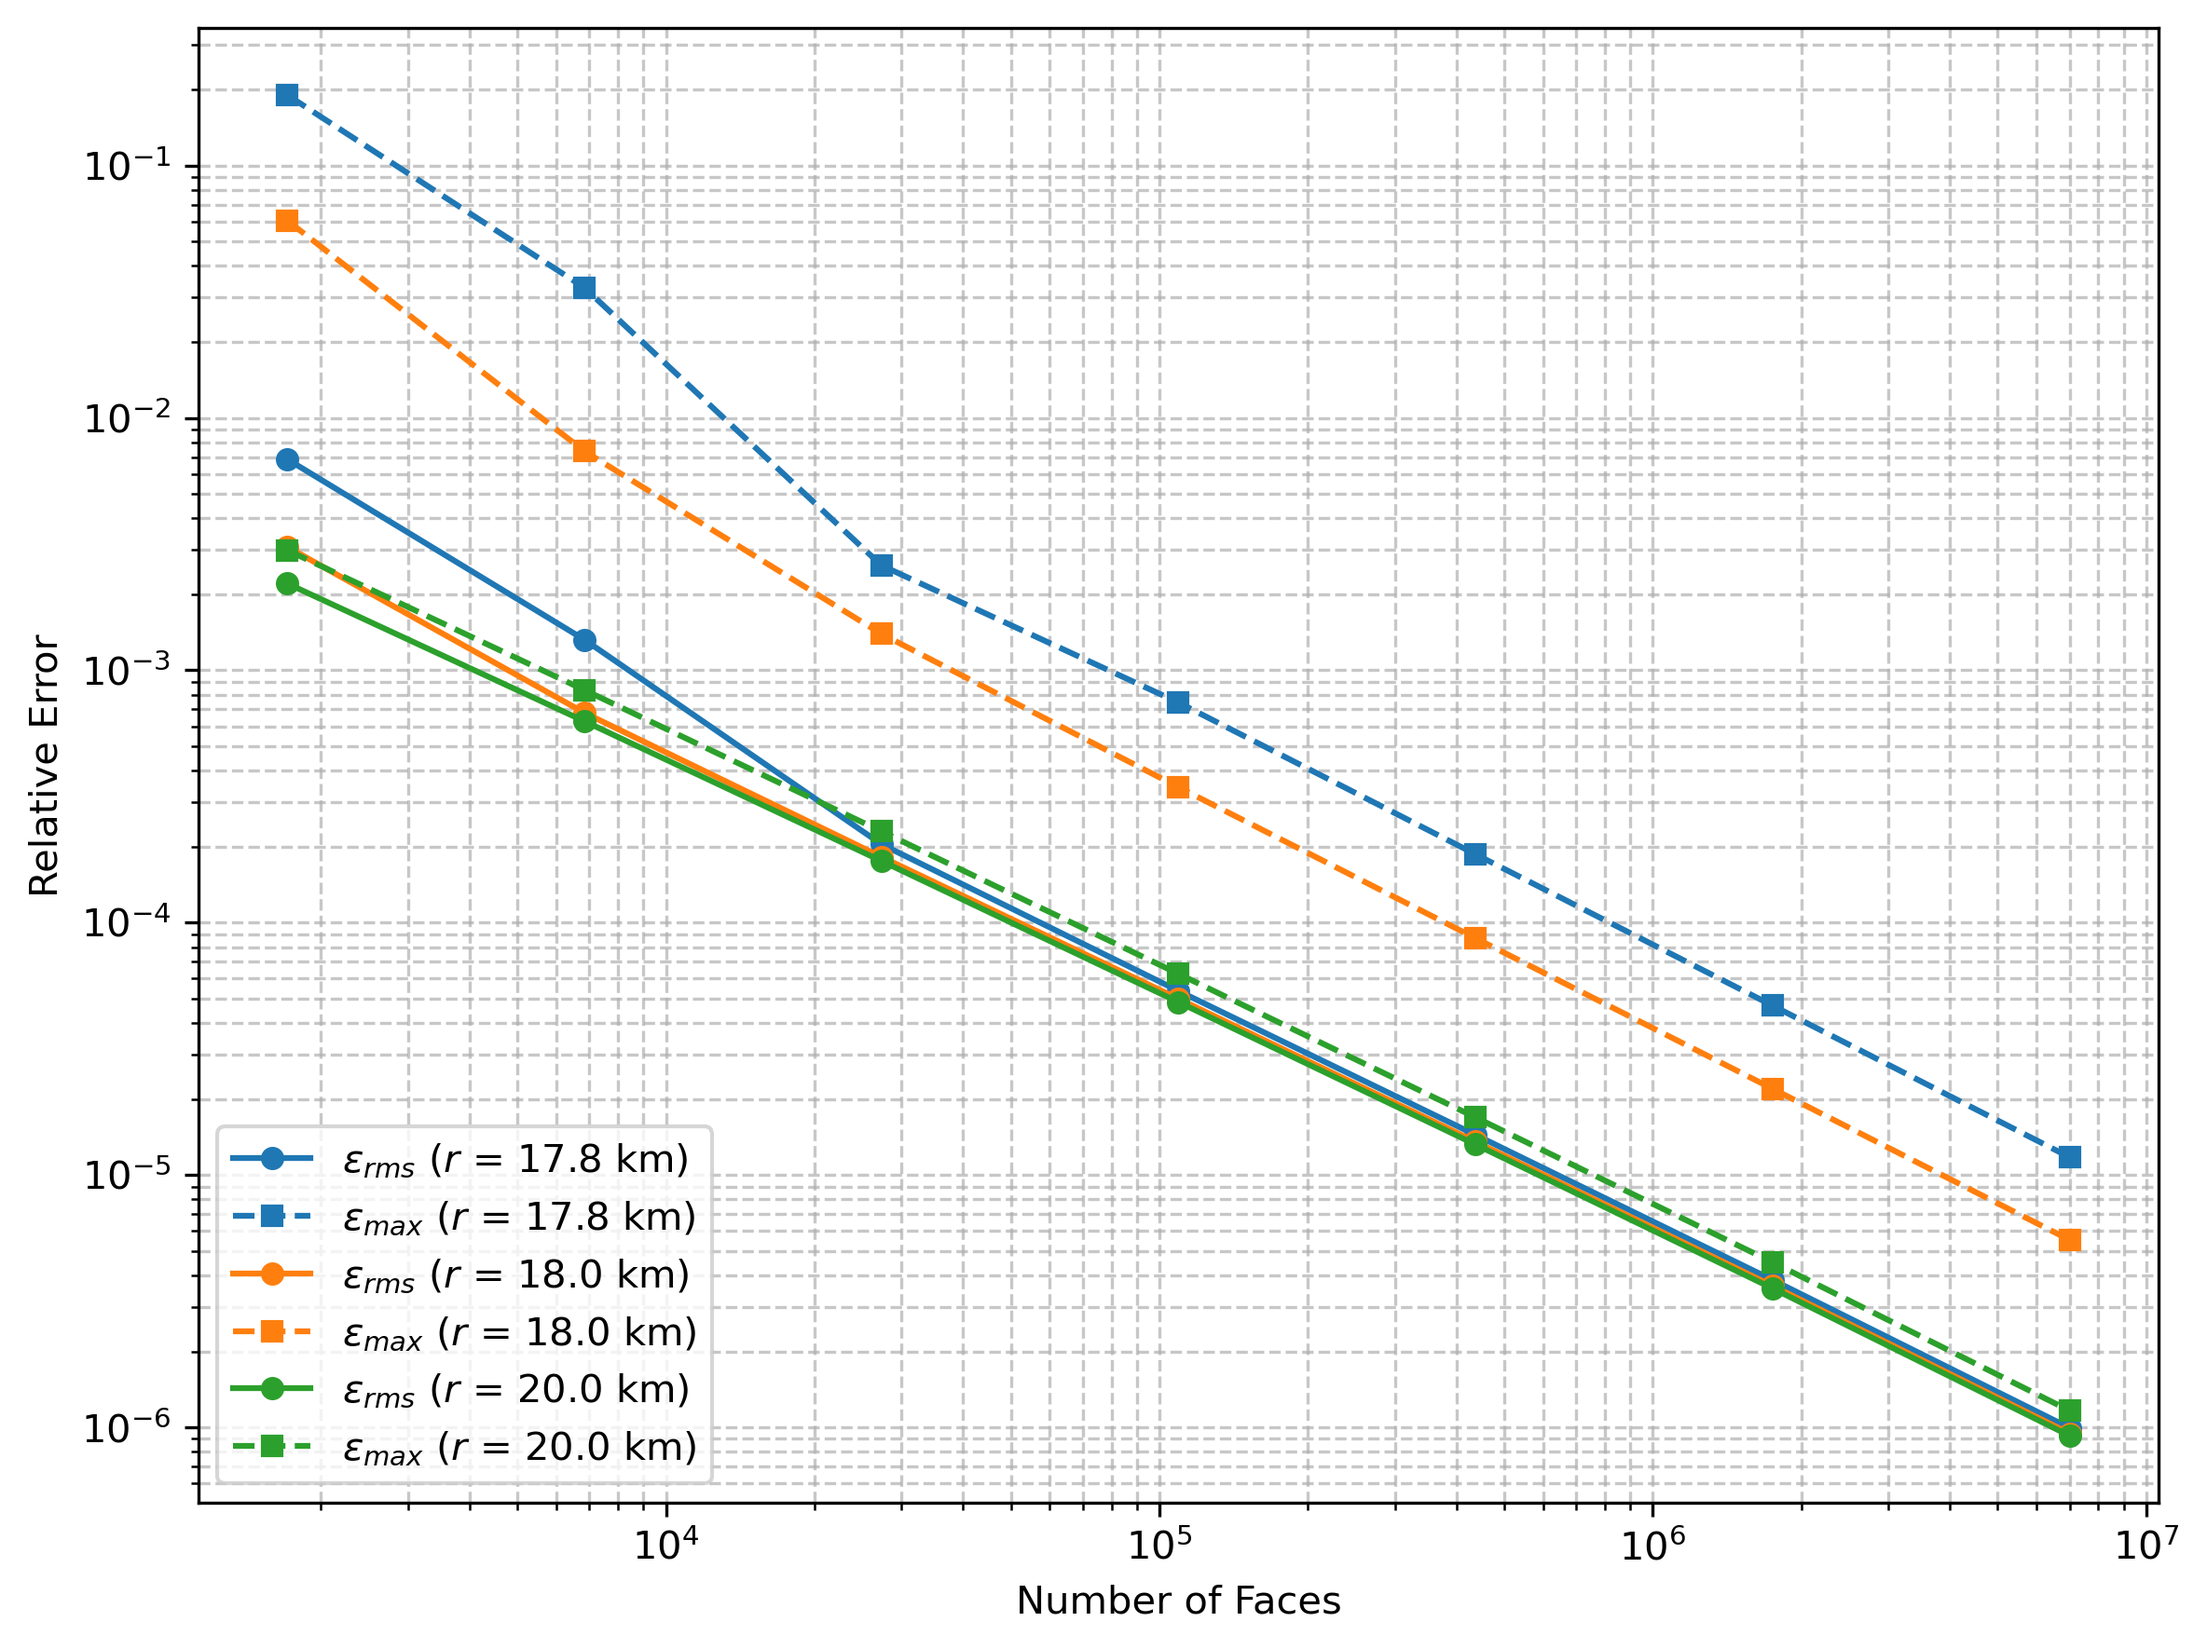
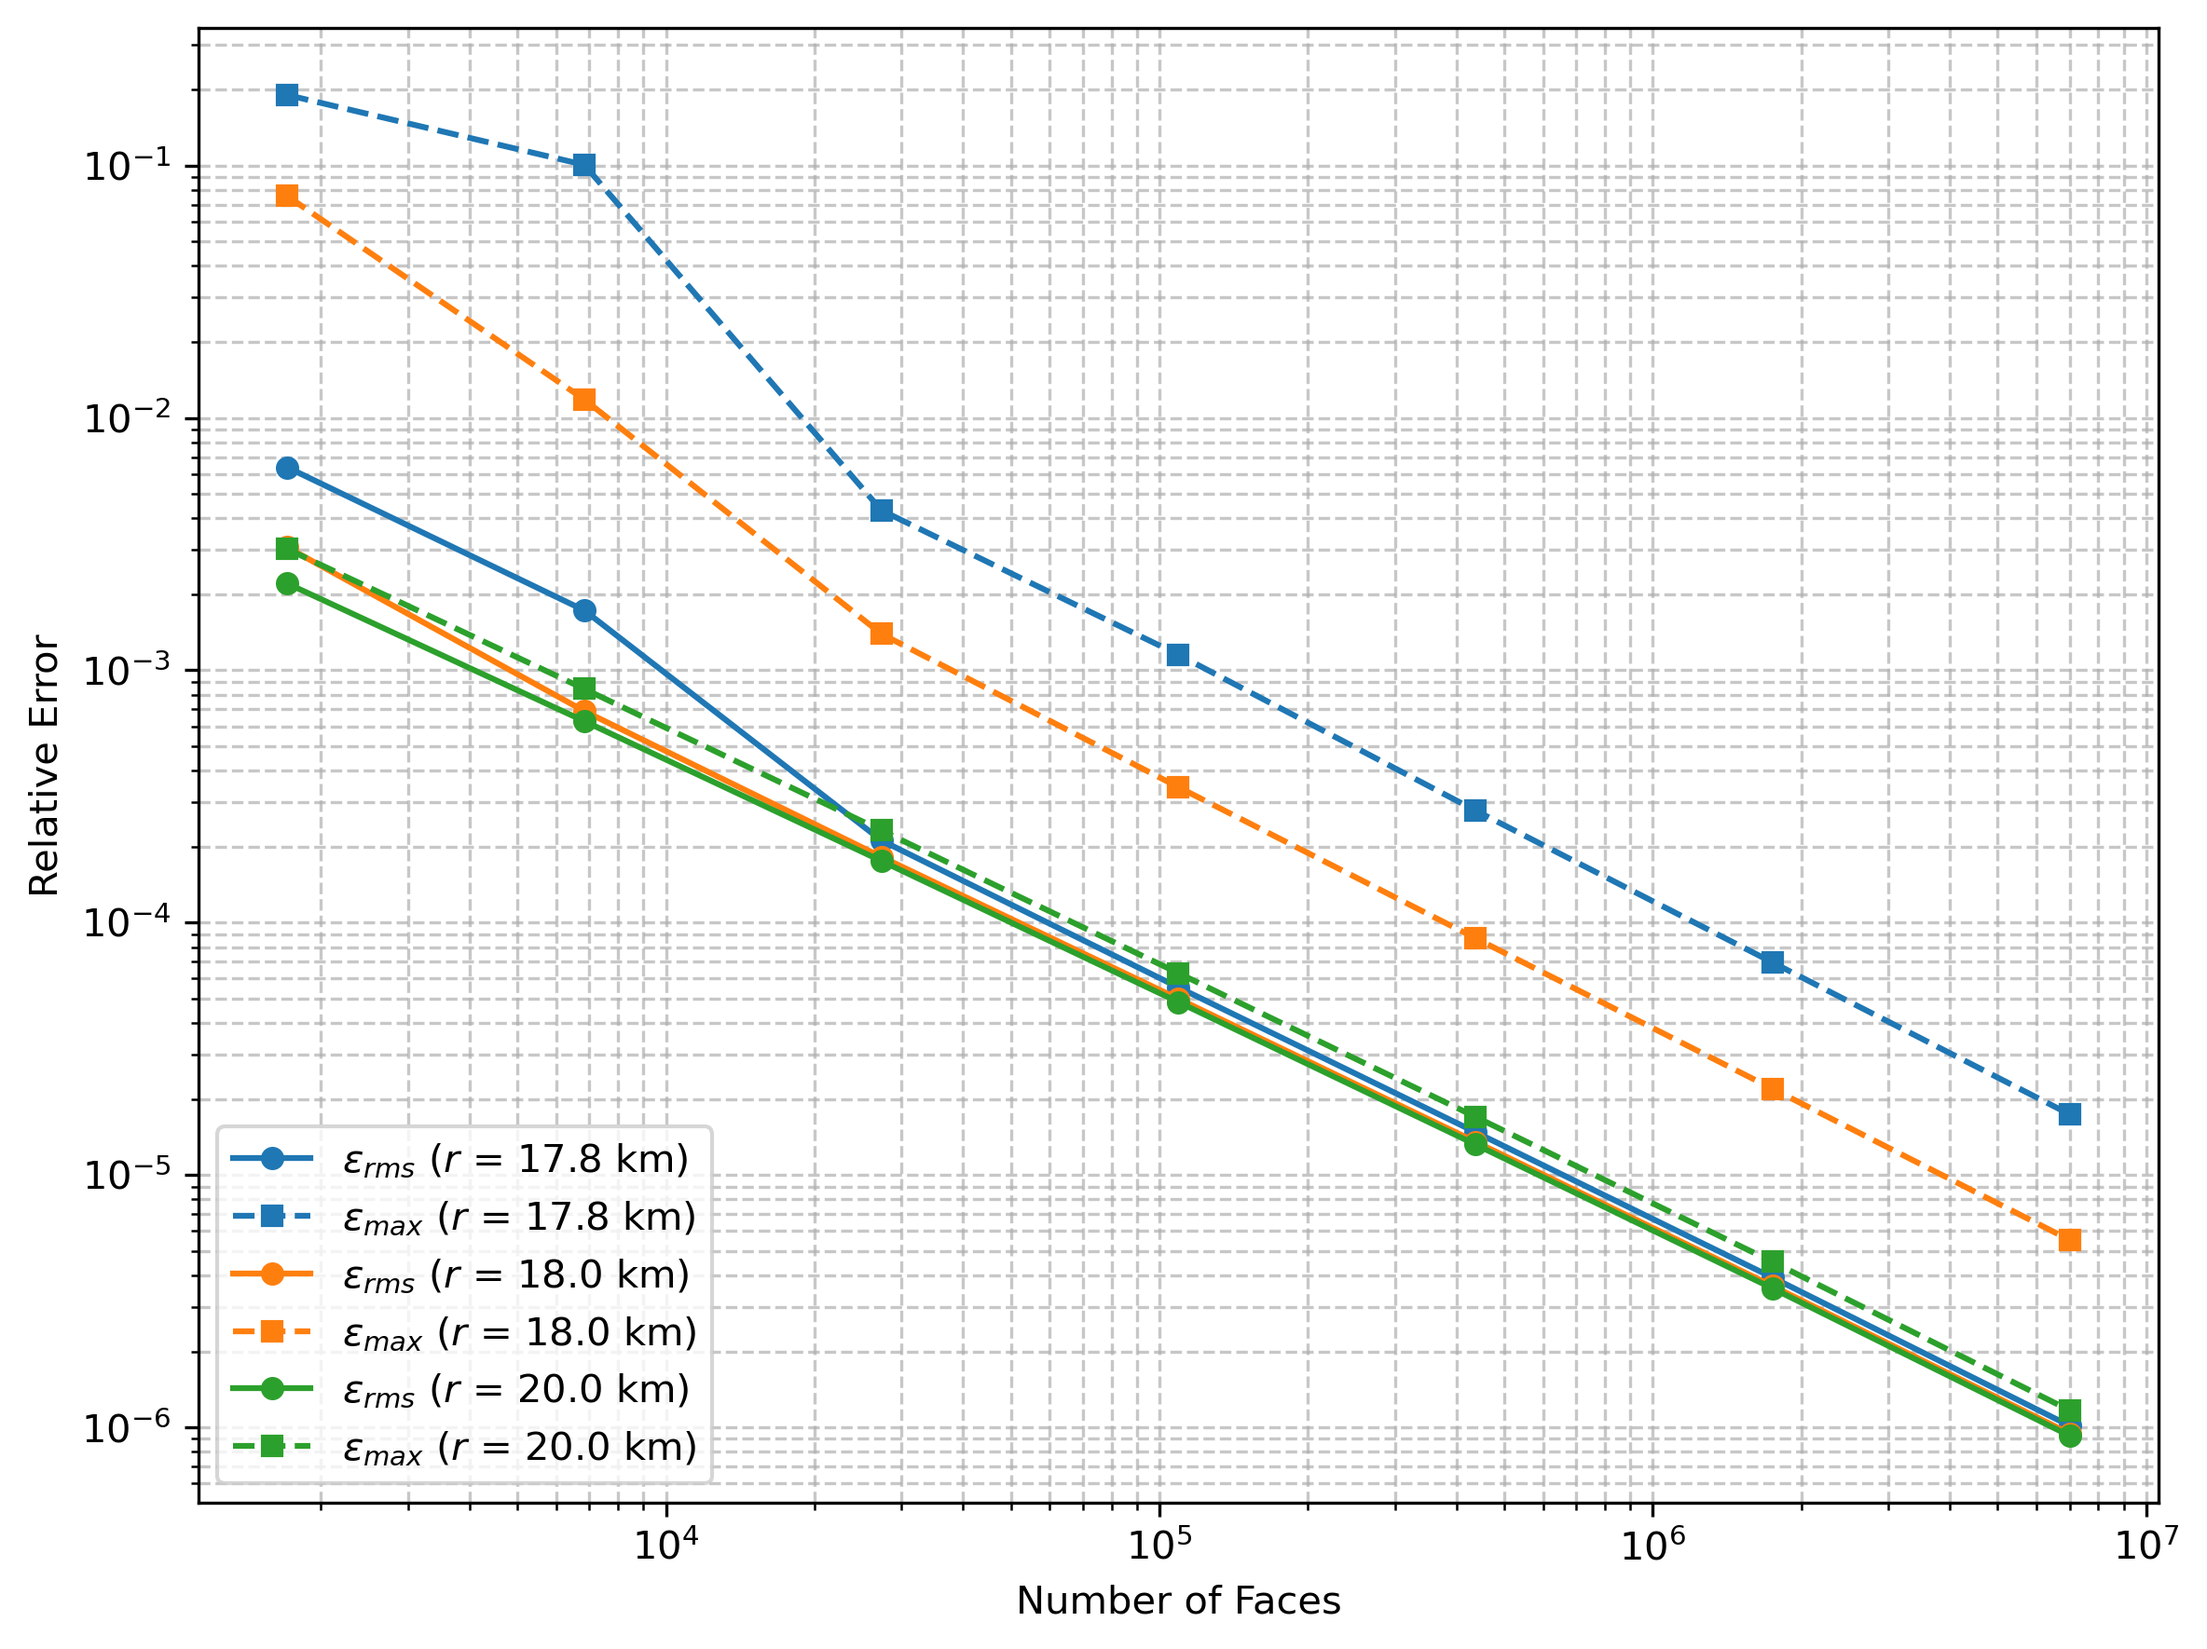
LW_20260502

diff --git a/ex_EROS_GreenThirdID_2.py b/ex_EROS_GreenThirdID_2.py
@@ -3,17 +3,27 @@
 ##################################################################
 # %%
 # # ! Setup
+import os
+os.environ["PYVISTA_OFF_SCREEN"] = "true"
 import numpy as np
+import matplotlib
+matplotlib.use('Agg')
 import matplotlib.pyplot as plt
 import time
+from datetime import datetime
 import pyvista as pv
 pv.set_jupyter_backend('static')
 from scipy.io import loadmat
 from gravity_forward_numba import *
 # %% 
+# # ! Start time
+print("=" * 80)
+print(f"Start time: [{datetime.now().strftime('%Y-%m-%d %H:%M:%S')}]")
+print("=" * 80)
+# %% 
 # # ! Parameters
 radii = [17.8, 18.0, 20.0]        # Evaluation sphere radii (km)
-icosph_lvl = 4                    # 10 * 4^n + 2
+icosph_lvl = 6                    # 10 * 4^n + 2
 sub_max = 6                       # Max subdivision level for EROS mesh
 NSUBs = np.arange(sub_max+1)      # Mesh refinement levels
 rho = 2670.0                      # Density (kg/m^3)
@@ -159,9 +169,8 @@ plt.ylabel('Relative Error')
 plt.grid(True, which="both", ls="--", alpha=0.7)
 plt.legend(loc='lower left')
 plt.tight_layout()
-plt.savefig('EROS_GreenThirdID_2_1.png', 
-            dpi=300, bbox_inches='tight')
-plt.show()
+plt.savefig('EROS_GreenThirdID_2_1.png', dpi=300, bbox_inches='tight')
+# plt.show()
 # %%
 # # ! Visualize pointwise relative error across refinement levels
 plot_nsubs = [0, 2, 4, 6]  # Choose 4 levels for 2x2 grid
@@ -238,4 +247,10 @@ pl.camera.up = (0, 0, 1)
 
 pl.window_size = (800, 800)
 
-pl.show()
+pl.screenshot('EROS_GreenThirdID_2_2.png');
+# pl.show()
+# %% 
+# # ! End time
+print("=" * 80)
+print(f"End time: [{datetime.now().strftime('%Y-%m-%d %H:%M:%S')}]")
+print("=" * 80)

diff --git a/README.md b/README.md
@@ -61,18 +61,23 @@ conda install numpy numba matplotlib pyvista pygmt pyshtools
 - [x] **Green's Third Identity Validation**: Accuracy verification for polyhedral methods
 
 <div align="center">
+  <img src="Figs/EROS_2DPlane_GPV.png" width="600"/>
+  <p><em>EROS gravity potential and vector on a 2D plane</em></p>
+</div>
+
+[View EROS: 2D plane computation](https://github.com/LeyuanWu/VecWerSch/blob/main/ex_EROS_2DPlane.ipynb)
+
+<div align="center">
   <img src="Figs/EROS_GreenThirdID_1.png" width="600"/>
   <p><em>EROS geometry refinement with surface gravity</em></p>
 </div>
+
+[View EROS: mesh refinement and surface gravity](https://github.com/LeyuanWu/VecWerSch/blob/main/ex_EROS_GreenThirdID_1.ipynb)
 
 <div align="center">
   <img src="Figs/EROS_GreenThirdID_2_2.png" width="600"/>
   <p><em>Numerical validation of Green's third ID across refinement levels</em></p>
 </div>
-
-[View EROS 2D plane computation](https://github.com/LeyuanWu/VecWerSch/blob/main/ex_EROS_2DPlane.ipynb)
-
-[View EROS: mesh refinement and surface gravity](https://github.com/LeyuanWu/VecWerSch/blob/main/ex_EROS_GreenThirdID_1.ipynb)
 
 [View EROS: Green's Third ID convergence](https://github.com/LeyuanWu/VecWerSch/blob/main/ex_EROS_GreenThirdID_2.ipynb)
 
